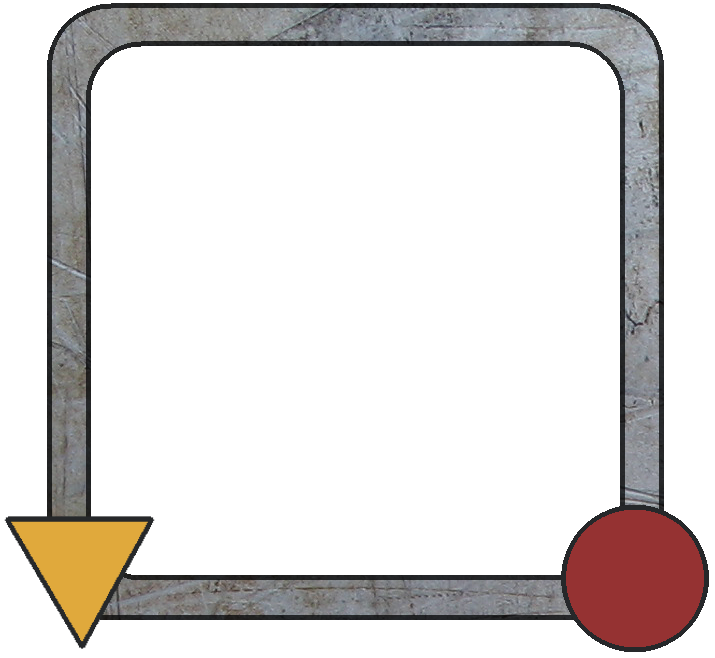
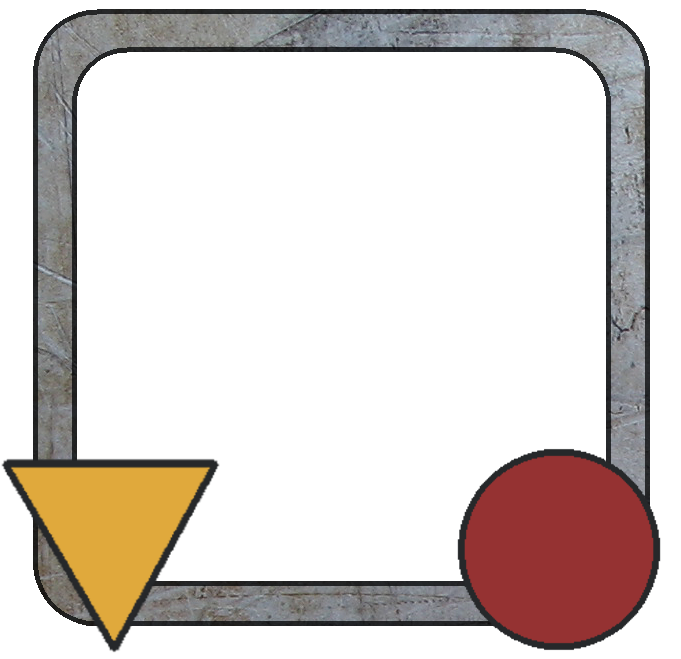
larger minion

Changed region(s): [[0.0, 0.0, 1.0, 1.0]]

diff --git a/src/client/viewconstant/Const.java b/src/client/viewconstant/Const.java
@@ -36,7 +36,7 @@ public class Const {
 
     public static final int CARD_W = 75;
     public static final int CARD_H = 125;
-    public static final int MINION_W = 75;
+    public static final int MINION_W = 125;
     public static final int MINION_H = 125;
 
     public static final double CARD_NAME_Y_RATIO = 0.6;
